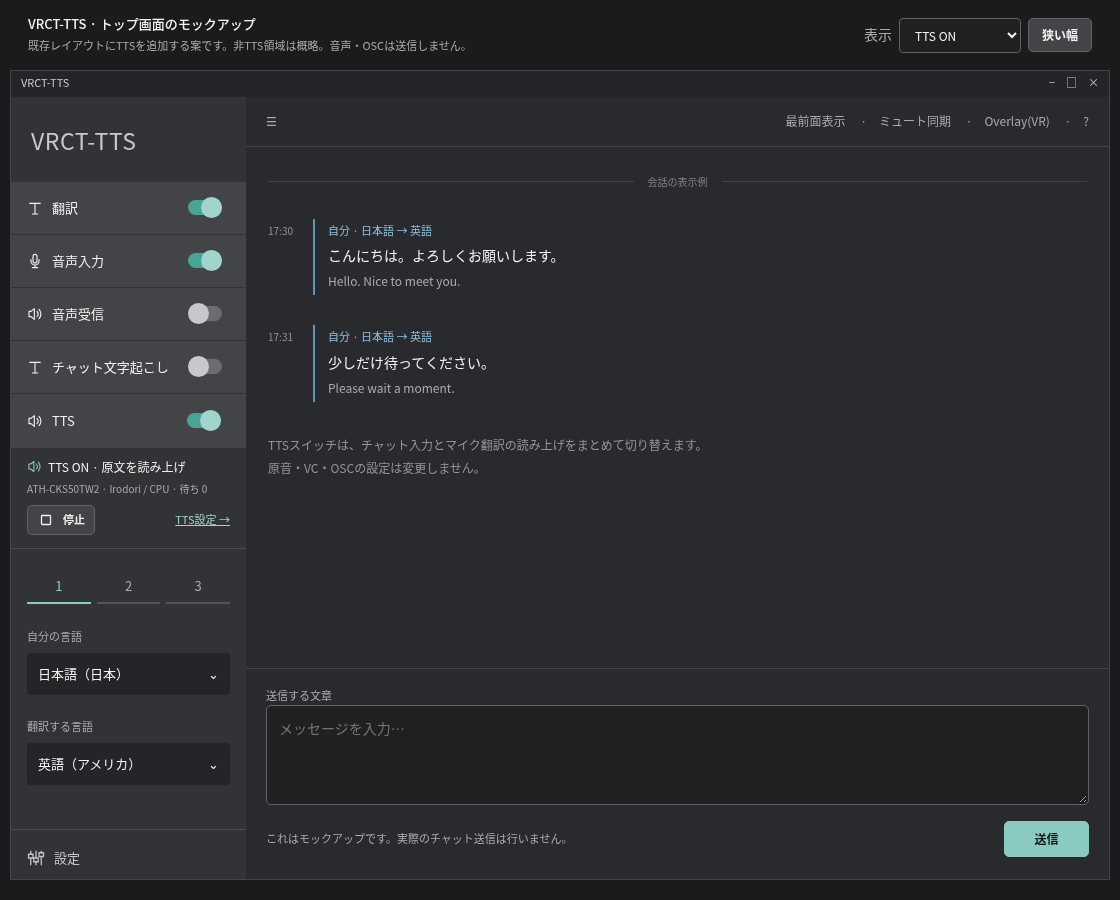
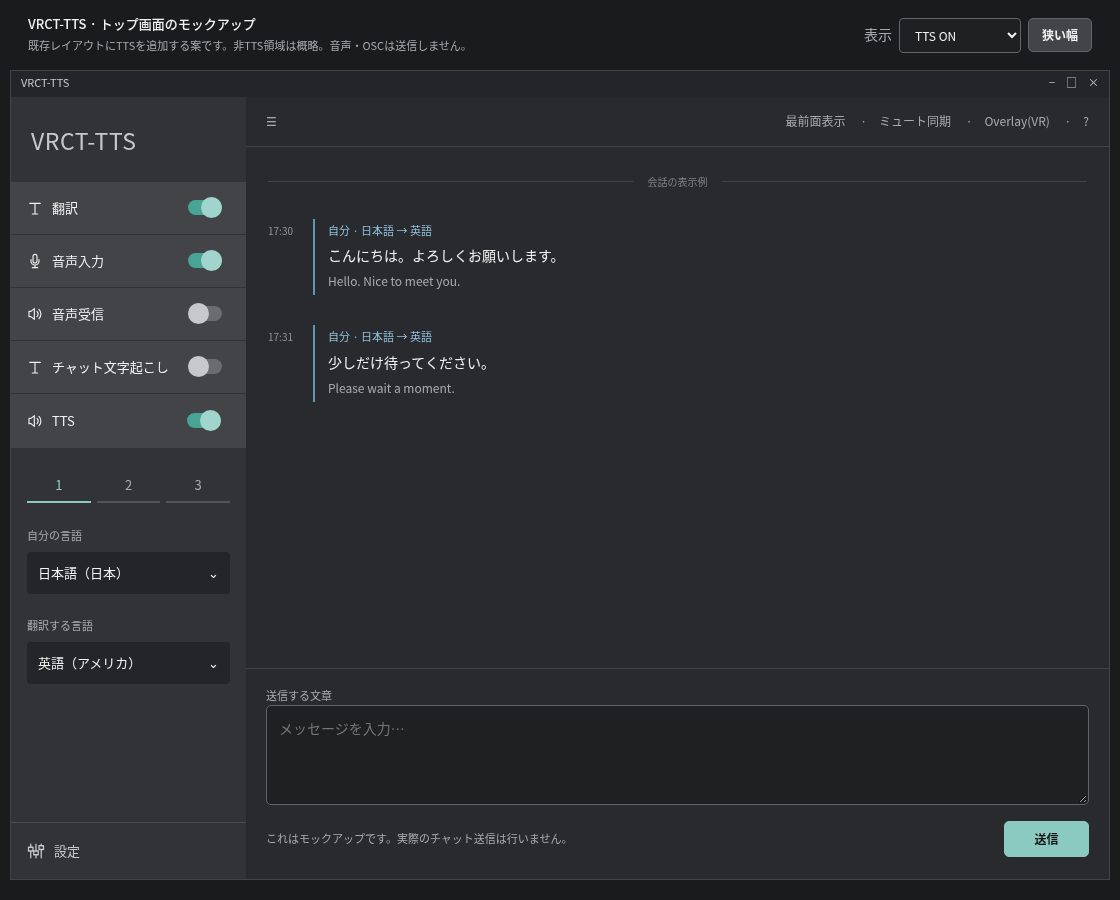
docs(tts): simplify main controls to one toggle

diff --git a/docs/design/tts-settings/main.html b/docs/design/tts-settings/main.html
@@ -7,28 +7,34 @@
 
 </style>
 <style>
-.home-layout{display:grid;grid-template-columns:235px minmax(0,1fr);min-height:0;flex:1}.home-sidebar{background:#323336;display:flex;flex-direction:column;overflow:auto}.brand{padding:26px 20px 23px;font-size:23px;font-weight:400;letter-spacing:.025em;color:#c7c8cc}.switches{display:grid;gap:1px}.switch-row{display:flex;align-items:center;justify-content:space-between;gap:8px;min-height:52px;padding:13px 16px;background:#434447;color:#f2f2f2}.switch-row .label{display:flex;align-items:center;gap:9px;font-size:13px}.switch-row .label svg{width:16px}.switch-row.tts{border-left:3px solid #8acac0;padding-left:13px}.switch-control{display:flex;align-items:center;gap:7px;min-height:28px;min-width:52px;padding:3px;border:0;background:transparent!important;box-shadow:none}.switch-track{display:block;width:34px;height:15px;border-radius:15px;background:#6a6c6f;position:relative}.switch-track:after{content:"";position:absolute;left:0;top:-3px;width:21px;height:21px;border-radius:100%;background:#c7c8cc}.switch-control[aria-checked=true] .switch-track,.switch-track.on{background:#48a495}.switch-control[aria-checked=true] .switch-track:after,.switch-track.on:after{left:13px;background:#a1d4cc}.switch-track.static{width:34px;flex:none;margin:0 8px}.language-box{padding:21px 16px}.preset{display:flex;gap:6px;margin-bottom:24px}.preset span{flex:1;text-align:center;border-bottom:2px solid #535457;padding:6px;color:#a9aaae;font-size:13px}.preset span.active{border-color:#8acac0;color:#8acac0}.language-box small{display:block;font-size:11px;margin-bottom:8px}.language{background:#242528;padding:11px;border-radius:4px;display:flex;justify-content:space-between;font-size:13px;margin-bottom:23px}.settings-link{margin-top:auto;padding:18px 16px;border-top:1px solid #4b4c4f;display:flex;align-items:center;gap:9px;text-decoration:none;color:#c7c8cc;font-size:13px}.chat{display:flex;flex-direction:column;min-height:0}.chat-top{display:flex;align-items:center;justify-content:space-between;padding:13px 20px;border-bottom:1px solid #434447;font-size:12px;color:#a9aaae;min-height:50px}.tts-strip{display:flex;align-items:center;justify-content:space-between;gap:15px;padding:13px 20px;background:#2e3535;border-bottom:1px solid #4b4c4f}.tts-strip .title{display:flex;align-items:center;gap:9px;font-size:13px}.tts-strip .title svg{color:#8acac0}.tts-strip small{font-size:11px;display:block;margin-top:5px}.tts-strip .actions{align-items:center}.tts-strip button{font-size:12px}.tts-strip a{font-size:12px;white-space:nowrap}.messages{padding:27px 22px;overflow:auto;flex:1}.date-line{display:flex;align-items:center;gap:14px;color:#7f8084;font-size:10px;margin-bottom:29px}.date-line:before,.date-line:after{content:"";height:1px;flex:1;background:#434447}.message{display:flex;gap:13px;margin-bottom:30px}.message-time{font-size:10px;color:#949599;padding-top:4px;min-width:32px}.message-content{border-left:2px solid #6197b4;padding-left:13px}.message-content small{color:#8ec0dc;font-size:11px}.message-content p{font-size:14px;margin:5px 0}.message-content .translation{color:#a9aaae;font-size:12px}.empty-hint{font-size:12px;color:#949599;margin-top:32px;line-height:1.9}.input-area{padding:15px 20px 22px;border-top:1px solid #434447}.input-area textarea{width:100%;min-height:100px;resize:vertical;border:1px solid #636467;background:#1f2022;color:#f2f2f2;padding:12px;border-radius:5px;font:14px/1.7 inherit}.input-actions{display:flex;align-items:center;justify-content:space-between;margin-top:10px;gap:12px}.input-actions small{font-size:11px}.input-actions button{min-width:85px;font-size:12px}.ready-note{font-size:11px;padding:12px 16px;color:#a9aaae;border-bottom:1px solid #434447}.ready-note a{display:inline-block;margin-top:7px}.tts-strip.off{background:#292a2d}.tts-strip.unready{background:#38322b}.tts-strip.unready .title svg{color:#e4b57b}.compact .home-layout{grid-template-columns:175px minmax(0,1fr)}.compact .tts-strip{align-items:flex-start;flex-direction:column}@media(max-width:760px){.home-layout{grid-template-columns:170px minmax(0,1fr)}.tts-strip{align-items:flex-start;flex-direction:column}.brand{font-size:19px;padding-left:14px}.switch-row{padding:13px 10px}.switch-row .label{font-size:12px}.input-actions{align-items:flex-start;flex-direction:column}}
+.home-layout{display:grid;grid-template-columns:235px minmax(0,1fr);min-height:0;flex:1}.home-sidebar{background:#323336;display:flex;flex-direction:column;overflow:auto}.brand{padding:26px 20px 23px;font-size:23px;font-weight:400;letter-spacing:.025em;color:#c7c8cc}.switches{display:grid;gap:1px}.switch-row{display:flex;align-items:center;justify-content:space-between;gap:8px;min-height:52px;padding:13px 16px;background:#434447;color:#f2f2f2}.switch-row .label{display:flex;align-items:center;gap:9px;font-size:13px}.switch-row .label svg{width:16px}.switch-row.tts{border-left:3px solid #8acac0;padding-left:13px}.switch-control{display:flex;align-items:center;gap:7px;min-height:28px;min-width:52px;padding:3px;border:0;background:transparent!important;box-shadow:none}.switch-track{display:block;width:34px;height:15px;border-radius:15px;background:#6a6c6f;position:relative}.switch-track:after{content:"";position:absolute;left:0;top:-3px;width:21px;height:21px;border-radius:100%;background:#c7c8cc}.switch-control[aria-checked=true] .switch-track,.switch-track.on{background:#48a495}.switch-control[aria-checked=true] .switch-track:after,.switch-track.on:after{left:13px;background:#a1d4cc}.switch-track.static{width:34px;flex:none;margin:0 8px}.language-box{padding:21px 16px}.preset{display:flex;gap:6px;margin-bottom:24px}.preset span{flex:1;text-align:center;border-bottom:2px solid #535457;padding:6px;color:#a9aaae;font-size:13px}.preset span.active{border-color:#8acac0;color:#8acac0}.language-box small{display:block;font-size:11px;margin-bottom:8px}.language{background:#242528;padding:11px;border-radius:4px;display:flex;justify-content:space-between;font-size:13px;margin-bottom:23px}.settings-link{margin-top:auto;padding:18px 16px;border-top:1px solid #4b4c4f;display:flex;align-items:center;gap:9px;text-decoration:none;color:#c7c8cc;font-size:13px}.chat{display:flex;flex-direction:column;min-height:0}.chat-top{display:flex;align-items:center;justify-content:space-between;padding:13px 20px;border-bottom:1px solid #434447;font-size:12px;color:#a9aaae;min-height:50px}.messages{padding:27px 22px;overflow:auto;flex:1}.date-line{display:flex;align-items:center;gap:14px;color:#7f8084;font-size:10px;margin-bottom:29px}.date-line:before,.date-line:after{content:"";height:1px;flex:1;background:#434447}.message{display:flex;gap:13px;margin-bottom:30px}.message-time{font-size:10px;color:#949599;padding-top:4px;min-width:32px}.message-content{border-left:2px solid #6197b4;padding-left:13px}.message-content small{color:#8ec0dc;font-size:11px}.message-content p{font-size:14px;margin:5px 0}.message-content .translation{color:#a9aaae;font-size:12px}.empty-hint{font-size:12px;color:#949599;margin-top:32px;line-height:1.9}.input-area{padding:15px 20px 22px;border-top:1px solid #434447}.input-area textarea{width:100%;min-height:100px;resize:vertical;border:1px solid #636467;background:#1f2022;color:#f2f2f2;padding:12px;border-radius:5px;font:14px/1.7 inherit}.input-actions{display:flex;align-items:center;justify-content:space-between;margin-top:10px;gap:12px}.input-actions small{font-size:11px}.input-actions button{min-width:85px;font-size:12px}.compact .home-layout{grid-template-columns:175px minmax(0,1fr)}@media(max-width:760px){.home-layout{grid-template-columns:170px minmax(0,1fr)}.brand{font-size:19px;padding-left:14px}.switch-row{padding:13px 10px}.switch-row .label{font-size:12px}.input-actions{align-items:flex-start;flex-direction:column}}
 
 /* Keep the main message area unchanged; TTS lives beside the existing switches. */
 .switch-row.tts{border-left:0;padding-left:16px}
-.home-sidebar>.tts-strip{padding:10px 16px 13px;background:#323336;flex-direction:column;align-items:stretch;gap:8px}
-.home-sidebar>.tts-strip .title{font-size:12px;gap:6px}
-.home-sidebar>.tts-strip .title svg{width:15px;height:15px;flex:none}
-.home-sidebar>.tts-strip small{font-size:10px;overflow-wrap:anywhere}
-.home-sidebar>.tts-strip .actions{justify-content:space-between}
-.home-sidebar>.tts-strip button{font-size:11px;min-height:30px;padding:4px 9px}
-.home-sidebar>.tts-strip a{font-size:11px}
-.home-sidebar>.tts-strip.unready{background:#38322b}
+
+.sr-only{position:absolute;width:1px;height:1px;padding:0;margin:-1px;overflow:hidden;clip-path:inset(50%);white-space:nowrap;border:0}
+.switch-control[aria-busy=true] .switch-track{opacity:.5}
 </style>
 <svg style="display:none"><defs><symbol id="speaker" viewBox="0 0 24 24"><path d="M11 4 6 8H3v8h3l5 4zM15 8a6 6 0 0 1 0 8m3-11a10 10 0 0 1 0 14"/></symbol><symbol id="mic" viewBox="0 0 24 24"><rect x="9" y="2" width="6" height="13" rx="3"/><path d="M6 10v2a6 6 0 0 0 12 0v-2m-6 8v4m-4 0h8"/></symbol><symbol id="text" viewBox="0 0 24 24"><path d="M4 5h16M12 5v16M8 21h8"/></symbol><symbol id="stop" viewBox="0 0 24 24"><rect x="6" y="6" width="12" height="12" rx="1"/></symbol><symbol id="settings" viewBox="0 0 24 24"><path d="M5 3v4m0 5v9M12 3v9m0 5v4M19 3v2m0 5v11M2 7h6v5H2zm7 5h6v5H9zm7-7h6v5h-6z"/></symbol></defs></svg>
 <header class="preview"><div><strong>VRCT-TTS · トップ画面のモックアップ</strong><small>既存レイアウトにTTSを追加する案です。非TTS領域は概略。音声・OSCは送信しません。</small></div><div class="preview-controls"><label for="scenario" class="muted">表示</label><select id="scenario"><option value="on">TTS ON</option><option value="off">TTS OFF</option><option value="unready">準備が必要</option><option value="pending">応答待ち</option></select><button id="width" aria-pressed="false">狭い幅</button></div></header>
-<div class="window"><div class="titlebar"><span>VRCT-TTS</span><span aria-hidden="true">−　□　×</span></div><div class="home-layout"><aside class="home-sidebar"><div class="brand">VRCT-TTS</div><div class="switches"><div class="switch-row"><span class="label"><svg class="icon"><use href="#text"/></svg>翻訳</span><span class="switch-track on static" aria-hidden="true"></span></div><div class="switch-row"><span class="label"><svg class="icon"><use href="#mic"/></svg>音声入力</span><span class="switch-track on static" aria-hidden="true"></span></div><div class="switch-row"><span class="label"><svg class="icon"><use href="#speaker"/></svg>音声受信</span><span class="switch-track static" aria-hidden="true"></span></div><div class="switch-row"><span class="label"><svg class="icon"><use href="#text"/></svg>チャット文字起こし</span><span class="switch-track static" aria-hidden="true"></span></div><div class="switch-row tts"><span class="label" id="tts-label"><svg class="icon"><use href="#speaker"/></svg>TTS</span><button id="tts-toggle" class="switch-control" role="switch" aria-checked="true" aria-labelledby="tts-label" aria-describedby="tts-scope"><span class="switch-track" aria-hidden="true"></span></button></div></div><section class="tts-strip" id="tts-strip" aria-label="TTSの状態"><div><div class="title"><svg class="icon"><use href="#speaker"/></svg><span id="tts-state" role="status">TTS ON · 原文を読み上げ</span></div><small id="tts-detail">ATH-CKS50TW2 · Irodori / CPU · 待ち 0</small></div><div class="actions"><button id="stop-tts"><svg class="icon"><use href="#stop"/></svg>停止</button><a href="mockup.html">TTS設定 →</a></div></section><div class="language-box"><div class="preset"><span class="active">1</span><span>2</span><span>3</span></div><small>自分の言語</small><div class="language">日本語（日本）<span>⌄</span></div><small>翻訳する言語</small><div class="language">英語（アメリカ）<span>⌄</span></div></div><a class="settings-link" href="mockup.html"><svg class="icon"><use href="#settings"/></svg>設定</a></aside><main class="chat"><div class="chat-top"><span>☰</span><span>最前面表示　 ·　ミュート同期　 ·　Overlay(VR)　 ·　?</span></div><div class="messages"><div class="date-line">会話の表示例</div><article class="message"><span class="message-time">17:30</span><div class="message-content"><small>自分 · 日本語 → 英語</small><p>こんにちは。よろしくお願いします。</p><p class="translation">Hello. Nice to meet you.</p></div></article><article class="message"><span class="message-time">17:31</span><div class="message-content"><small>自分 · 日本語 → 英語</small><p>少しだけ待ってください。</p><p class="translation">Please wait a moment.</p></div></article><p class="empty-hint" id="tts-scope">TTSスイッチは、チャット入力とマイク翻訳の読み上げをまとめて切り替えます。<br>原音・VC・OSCの設定は変更しません。</p><p class="empty-hint" id="off-hint" hidden>読み上げをOFFにしました。文章の送信と翻訳は引き続き使えます。<br>再開しても、OFFにしたときの待ち音声は再生しません。</p></div><form class="input-area" id="chat-form"><label for="chat-text" class="muted" style="font-size:11px">送信する文章</label><textarea id="chat-text" placeholder="メッセージを入力…"></textarea><div class="input-actions"><small>これはモックアップです。実際のチャット送信は行いません。</small><button class="primary" type="submit">送信</button></div></form></main></div></div><div class="demo-toast" id="toast" role="status" hidden></div>
+<div class="window"><div class="titlebar"><span>VRCT-TTS</span><span aria-hidden="true">−　□　×</span></div><div class="home-layout"><aside class="home-sidebar"><div class="brand">VRCT-TTS</div><div class="switches"><div class="switch-row"><span class="label"><svg class="icon"><use href="#text"/></svg>翻訳</span><span class="switch-track on static" aria-hidden="true"></span></div><div class="switch-row"><span class="label"><svg class="icon"><use href="#mic"/></svg>音声入力</span><span class="switch-track on static" aria-hidden="true"></span></div><div class="switch-row"><span class="label"><svg class="icon"><use href="#speaker"/></svg>音声受信</span><span class="switch-track static" aria-hidden="true"></span></div><div class="switch-row"><span class="label"><svg class="icon"><use href="#text"/></svg>チャット文字起こし</span><span class="switch-track static" aria-hidden="true"></span></div><div class="switch-row tts"><span class="label" id="tts-label"><svg class="icon"><use href="#speaker"/></svg>TTS</span><button id="tts-toggle" class="switch-control" role="switch" aria-checked="true" aria-labelledby="tts-label" aria-describedby="tts-scope"><span class="switch-track" aria-hidden="true"></span></button></div></div><div class="language-box"><div class="preset"><span class="active">1</span><span>2</span><span>3</span></div><small>自分の言語</small><div class="language">日本語（日本）<span>⌄</span></div><small>翻訳する言語</small><div class="language">英語（アメリカ）<span>⌄</span></div></div><a class="settings-link" href="mockup.html"><svg class="icon"><use href="#settings"/></svg>設定</a></aside><main class="chat"><div class="chat-top"><span>☰</span><span>最前面表示　 ·　ミュート同期　 ·　Overlay(VR)　 ·　?</span></div><div class="messages"><div class="date-line">会話の表示例</div><article class="message"><span class="message-time">17:30</span><div class="message-content"><small>自分 · 日本語 → 英語</small><p>こんにちは。よろしくお願いします。</p><p class="translation">Hello. Nice to meet you.</p></div></article><article class="message"><span class="message-time">17:31</span><div class="message-content"><small>自分 · 日本語 → 英語</small><p>少しだけ待ってください。</p><p class="translation">Please wait a moment.</p></div></article><p class="sr-only" id="tts-scope">TTSスイッチは、チャット入力とマイク翻訳の読み上げをまとめて切り替えます。<br>原音・VC・OSCの設定は変更しません。</p></div><form class="input-area" id="chat-form"><label for="chat-text" class="muted" style="font-size:11px">送信する文章</label><textarea id="chat-text" placeholder="メッセージを入力…"></textarea><div class="input-actions"><small>これはモックアップです。実際のチャット送信は行いません。</small><button class="primary" type="submit">送信</button></div></form></main></div></div><span class="sr-only" id="tts-announcement" role="status"></span><div class="demo-toast" id="toast" role="status" hidden></div>
 <script>
 const $=id=>document.getElementById(id);let on=new URLSearchParams(location.search).get('tts')!=='off',pending=false,ready=true,toastTimer,requestTimer;
 function toast(text){$('toast').textContent=text;$('toast').hidden=false;clearTimeout(toastTimer);toastTimer=setTimeout(()=>$('toast').hidden=true,2600)}
-function render(){$('scenario').value=!ready?'unready':pending?'pending':on?'on':'off';document.querySelectorAll('a[href^="mockup.html"]').forEach(a=>a.href='mockup.html?tts='+(on?'on':'off'));const checked=on&&ready;$('tts-toggle').setAttribute('aria-checked',String(checked));$('tts-toggle').disabled=pending||!ready;$('tts-toggle').setAttribute('aria-busy',String(pending));$('tts-state').textContent=pending?'TTS · 切り替えを確認中':!ready?'TTS OFF · エンジンの起動が必要':on?'TTS ON · 原文を読み上げ':'TTS OFF · 読み上げを停止しています';$('tts-detail').textContent=!ready?'TTS設定でモデルを指定し、エンジンを起動してください':pending?'応答を待っています。状態を確認できるまで確定表示にしません。':'ATH-CKS50TW2 · Irodori / CPU · 待ち 0';$('tts-strip').classList.toggle('off',!on);$('tts-strip').classList.toggle('unready',!ready);$('off-hint').hidden=on||!ready;$('stop-tts').disabled=!on&&!pending}
-$('tts-toggle').onclick=()=>{pending=true;render();requestTimer=setTimeout(()=>{on=!on;pending=false;render();toast(on?'TTSをONにしました（デモ）':'TTSの再生と待ち行列を止めました（デモ）')},500)};
-$('stop-tts').onclick=()=>toast('TTSの再生と待ち行列を停止しました。次の送信は読み上げます（デモ）');
+function render(){
+ $('scenario').value=!ready?'unready':pending?'pending':on?'on':'off';
+ document.querySelectorAll('a[href^="mockup.html"]').forEach(a=>a.href='mockup.html?tts='+(on?'on':'off'));
+ $('tts-toggle').setAttribute('aria-checked',String(on&&ready));
+ $('tts-toggle').disabled=pending;
+ $('tts-toggle').setAttribute('aria-busy',String(pending));
+ const state=pending?'TTSの切り替えを確認中':!ready?'TTSは準備が必要です。設定の音声・TTSを確認してください':on?'TTS ON':'TTS OFF';
+ $('tts-toggle').title=state;
+ $('tts-announcement').textContent=state;
+}
+$('tts-toggle').onclick=()=>{
+ if(!ready){toast('TTSの準備ができていません。「設定 → 音声・TTS」で確認してください。');return}
+ pending=true;render();requestTimer=setTimeout(()=>{on=!on;pending=false;render()},500)
+};
 $('scenario').onchange=e=>{clearTimeout(requestTimer);clearTimeout(toastTimer);$('toast').hidden=true;const v=e.target.value;ready=v!=='unready';pending=v==='pending';on=v==='on'||pending;render()};
 $('width').onclick=()=>{const narrow=document.body.classList.toggle('compact');$('width').setAttribute('aria-pressed',String(narrow));$('width').textContent=narrow?'通常の幅':'狭い幅'};
 $('chat-form').onsubmit=e=>{e.preventDefault();toast(on?'送信と読み上げの表示例です。実際の送信・発声はしません。':'TTSはOFF。文章の送信のみの表示例です。')};render();

diff --git a/docs/superpowers/specs/2026-10-29-tts-settings-ui-design.md b/docs/superpowers/specs/2026-10-29-tts-settings-ui-design.md
@@ -10,6 +10,7 @@
   原音・直接VC・ASR・翻訳・OSCの設定を変更しない。
 - シード値とInstructionを指定できるようにする。
 - 既存VRCTのレイアウトを尊重し、TTS以外の配置や操作を変えない。
+- トップ画面のTTS操作はトグル1行だけとし、その下に停止・状態・設定リンクを追加しない。
 - 今回の成果物は原典調査、設計案、実装計画、操作できるモックアップ。
 
 ページ名「音声・TTS」、項目の配置、起動時のTTS OFF、各入力の保存方式は以下の提案。
@@ -72,26 +73,28 @@ Pythonモデルはsrc-python/models配下。エラー表示改善の未完差分
 ## トップ画面のTTSスイッチ
 
 既存MainFunctionSwitchの並び順を変えず、末尾にTTSを追加する。
-TTS状態、停止、専用設定への入口はその行の近くへ小さくまとめる。
-前案の会話欄上部の大きなTTS帯は採用せず、会話ログや入力欄の領域を新たに削らない。
-出力先や詳細な待ち状態は専用設定、またはTTS行の補足表示から確認できるようにする。
+トップ画面はこのトグル1行のみ。OFFが再生中のTTSと待ち行列を停止するため、
+その下の停止ボタン・状態表示・専用設定リンクは置かない。
+出力先や待ち件数、サーバーの詳細状態は「設定 → 音声・TTS」へまとめる。
+切替待ちは既存スイッチと同じ行内の処理中表現とアクセシブルな通知で伝える。
+失敗時は既存の通知を使い、常設の状態パネルは追加しない。
 簡易表示でもaccessible nameとON/OFF表示を残す。
 
 | 操作・状態 | 契約 |
 |---|---|
 | TTS OFF | 新規TTSを受け付けず、再生中のTTSと待ち行列をキャンセル。原音/VC/ASR/翻訳/OSCの開始・停止は呼ばない |
 | TTS ON | 保存済みのchat/mic読み上げモードで、新しく確定した文章から受け付ける。OFF前の遅い翻訳や待ち音声を再生しない |
-| 停止ボタン | 現在のTTSとキューだけを停止。TTS ONの選択は保持し、次の文章は読める |
-| 未設定・サーバー停止 | ONに見せず、理由と専用設定へのリンクを表示。モデル取得・ロード・マイク録音は自動開始しない |
-| 切替中 | backendの確定を待ち、現在の確定値と「切替確認中」を示す。楽観的に成功扱いしない |
-| OFF受理後に再生終了待ち | 「停止中」を表示。受付停止と音声排出完了を同一視しない |
-| 接続喪失・エラー | 状態未確認/停止理由を明示し、自動でONに戻さない |
+| 停止ボタン（専用設定ページのみ） | 現在のTTSとキューだけを停止。TTS ONの選択は保持し、次の文章は読める。トップには置かない |
+| 未設定・サーバー停止 | ONに見せず、操作時に既存通知で理由と「設定 → 音声・TTS」を案内。モデル取得・ロード・マイク録音は自動開始しない |
+| 切替中 | backendの確定を待ち、既存スイッチと同じ処理中表現を使う。楽観的に成功扱いしない |
+| OFF受理後に再生終了待ち | 行内の処理中表示を維持し、支援技術には停止中と通知。受付停止と音声排出完了を同一視しない |
+| 接続喪失・エラー | 既存通知で状態未確認/停止理由を伝え、自動でONに戻さない |
 | アプリ再起動 | TTS OFFを提案。保存した読み上げモード/seed/Instructionは保持、モデルは従来どおり停止 |
 
 既存のルートミュートとは独立した`tts_enabled`が必要。受け付け条件は
 `tts_enabled && !route_muted && source_mode_enabled`。ルート監視によるミュート解除で
 TTS OFFが上書きされない。TTS ONでもルートの安全ミュートは解除しない。
-管理経路がミュート中なら「TTS ON・音声経路はミュート中」と表示し、その経路操作へ案内する。
+管理経路がミュート中なら、操作時の既存通知と専用設定ページでその状態と経路操作を案内する。
 直接音声の原音抑制ポリシーも勝手に解除しない。
 
 ## シード値とInstruction

diff --git a/docs/superpowers/plans/2026-10-29-tts-settings-ui.md b/docs/superpowers/plans/2026-10-29-tts-settings-ui.md
@@ -13,6 +13,7 @@
 ## Global Constraints
 
 - 既存MainPage/SidebarSection/MainSectionの配置・既存スイッチの順序を維持し、TTSを末尾へ追加する。
+- トップはTTSトグル1行のみ。OFFで再生とキューを止め、下に停止・状態・設定リンクを追加しない。
 - 言語設定、右上のクイック設定、ログ/入力欄のリサイズ比率、送信ボタン設定、拡大率・compact modeを維持する。
 - モックの非TTS領域は概略。既存部品をモックのHTML/CSSで置換せず、会話欄に大きなTTS帯を追加しない。
 - TTSスイッチはchat/mic翻訳の読み上げだけに作用し、原音・直接VC・ASR・翻訳・OSCの設定を変更しない。
@@ -106,21 +107,22 @@
   detailsを閉じてもイベント購読・サーバー監視・入力操作の寿命を変えない。
 - [ ] 関連ブラウザー試験とVite buildを通してコミットする。
 
-## Task 4: トップ画面のスイッチと状態表示
+## Task 4: トップ画面のTTSスイッチ
 
 **Files:** `src-ui/views/app/main_page/sidebar_section/main_function_switch/MainFunctionSwitch.jsx`,
-必要なら同じディレクトリへ小さな`TTSControls.jsx`とSCSS、
+同ディレクトリの既存SCSS（必要な場合のみ）、
 `src-ui/logics/voice/useVoice.js`, `src-ui/logics/useReceiveRoutes.js`, locale各言語。
 **Test:** 新規`tests/voice/test_tts_controls_ui.py`、既存voice UI entryを使用。
 
 - [ ] 既存SwitchContainer/ToggleSwitchの表示を再利用する。TTSというlabelをON/OFFで変更しない。
   role=switch/aria-checked、Space操作、pending、compact表示のnameを検証する。
-- [ ] 既存4スイッチは並び替えず、TTSを末尾へ追加。状態・停止・設定リンクはTTS行の近くに収める。
+- [ ] 既存4スイッチは並び替えず、TTSを末尾へ1行追加。下に状態・停止・設定リンクを追加しない。
   MainSection、ログ、入力欄、右上の既存クイック設定を組み替えない。
 - [ ] 設定ページを一度も開かなくてもstatus/settings/server stateを取得できるよう購読を置く。
   ページ移動でタイマーが重複せず、遅いstateの順序逆転を世代で拒否する。
 - [ ] 通常ON/OFF、未設定、サーバー停止、管理経路ミュート、ネットワーク断のテストを先に追加。
-- [ ] ON/OFFと「現在の音声を停止」を区別して表示し、専用設定に直接遷移できるようにする。
+- [ ] トップのOFFで再生中TTSとキューを取り消す。詳細・停止操作は専用設定ページに残し、既存の設定入口を使う。
+  切替中は既存スイッチの処理中表示とaria-busy等を使用。失敗時だけ既存通知で理由と設定先を案内する。
 - [ ] fake IPCでOFFはdisable_ttsだけ、mute_voice/stop_direct_voice/ASR Stopは呼ばれないことを確認。
 - [ ] 主画面を開いたままの連打/サーバー死活と2つの読み上げソースの競合を検証してコミットする。
 

diff --git a/docs/design/tts-settings/research.md b/docs/design/tts-settings/research.md
@@ -18,7 +18,7 @@
 | 保存の見落とし | GOV.UKは主な操作を強調し、主操作を増やしすぎない方針 | formごとに保存対象を明示。未保存を文章でも表示 |
 | 長い設定 | GOV.UK Detailsは一部の利用者が必要な情報向けで、主要な情報を隠す用途は避ける | 普段の読み上げ/出力を先に置く。未設定・失敗時の準備手順は開いて見せる |
 | 保存/起動の状態 | W3CのStatus Messagesはフォーカスを奪わない通知を説明 | 保存中、確認済み、失敗、停止中を区別する |
-| 独立ページとトップスイッチ | ユーザーが明示希望。W3C APGはswitchのlabelを状態で変えないとする | メニュー「音声・TTS」、トップにTTS switchと状況/設定リンク |
+| 独立ページとトップスイッチ | ユーザーが明示希望。W3C APGはswitchのlabelを状態で変えないとする | メニュー「音声・TTS」、トップはTTSトグル1行だけ。詳細は専用設定、失敗時は既存通知 |
 | TTSだけのOFF | 既存muteは管理ルート全体、schedulerの_mutedもルート所有 | 独立tts_enabledを追加し、原音・VC・OSCを変更しない |
 | seed/Instruction | 固定speech.cppのAPI/ADRと実機モデル宣言 | 日本語/多言語別に保存し、対応モデルへJSON項目として送る |
 

diff --git a/docs/design/tts-settings/README.md b/docs/design/tts-settings/README.md
@@ -11,7 +11,8 @@
 - 「狭い幅」で設定行の折り返しを確認。ページ間のリンクはTTSのON/OFF例を引き継ぐ。
 - 多言語/ASR/直接VCの詳細は配置見本。実装では現在の項目を保持する。
 - 既存VRCTのレイアウトを優先し、TTSスイッチは既存の並びの末尾へ追加する。
-  状態表示もその近くへまとめ、会話欄へ大きなTTS帯を追加しない。
+  トップはトグル1行だけとし、OFFで停止する。下の停止ボタン・状態・設定リンクは置かない。
+  詳細は既存の設定入口から「音声・TTS」で確認する。
   モックの非TTS領域は概略であり、ロゴ・ログ・言語設定・入力欄を置換する提案ではない。
 
 [設計](../../superpowers/specs/2026-10-29-tts-settings-ui-design.md)・
